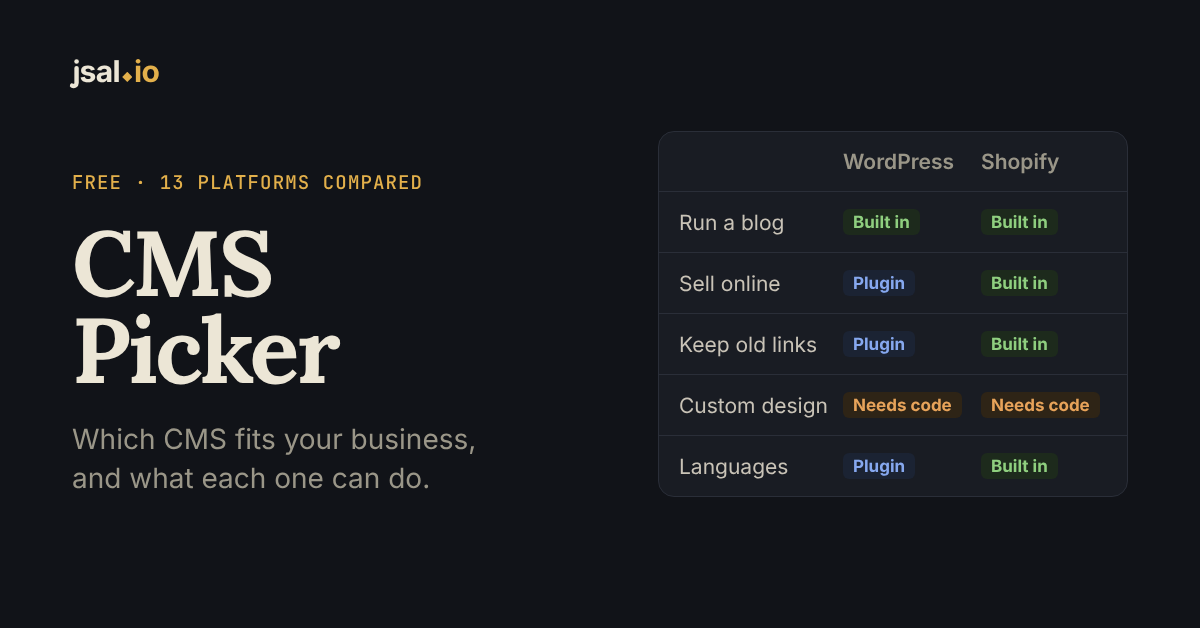
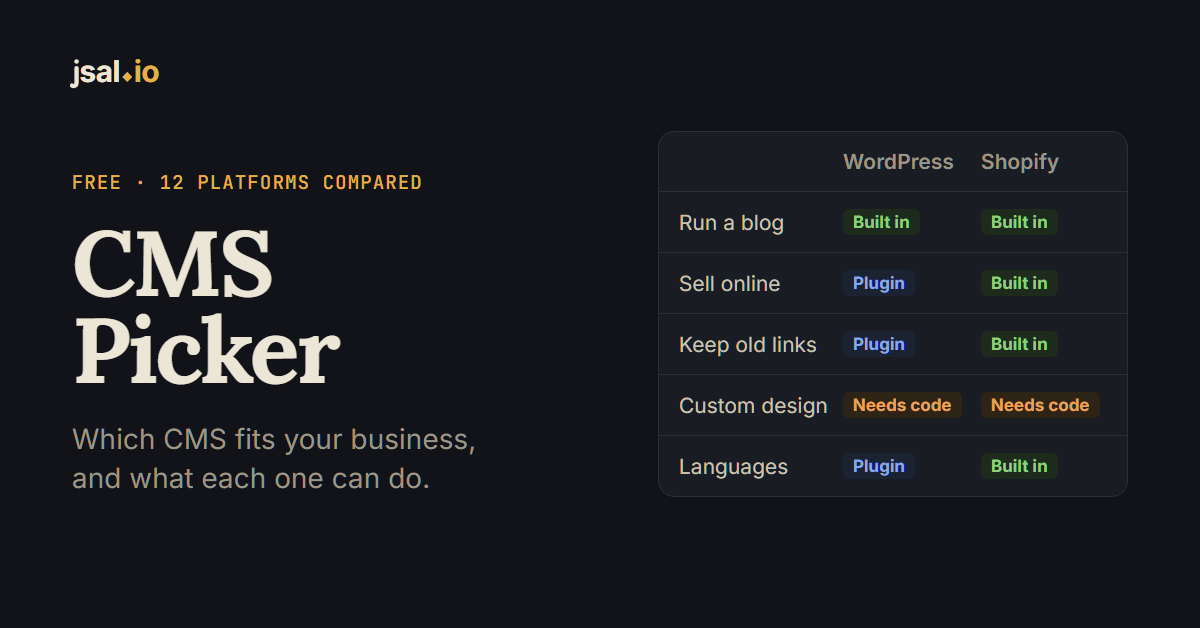
CMS Picker: 12 platforms, with Magento 2 off the picker
John switched Magento 2 off the CMS Picker (it stays in the Playbook for client work): few businesses start a new Magento site now, and it came first only for developer- or agency-built large or B2B stores, which now get BigCommerce (128 of 8,832 answer sets). The home page's Platform guides lose its tile and read "Compare all 12" (the grid still ends even at every width), and the CMS Picker's descriptions, the share image, the design-system page, CLAUDE.md and the design rules say 12.

The persona test now skips quiz values for platforms that are off the picker (they stay in quiz.json for when one comes back) and drops them from expected first places, as it already did for top threes. The four Magento personas expect BigCommerce once it's off. Personas, rules and expert cases pass with Magento on or off.

diff --git a/.github/scripts/personas.test.js b/.github/scripts/personas.test.js
@@ -46,10 +46,11 @@ const PERSONAS = [
   // Stores
   ['Etsy-style maker shop', { what: 'store', who: 'easy', care: 'no', size: 'small', needs: 'none', look: 'template', moving: 'no' },
     { first: ['shopify'], top3: ['shopify'], not: ['magento', 'drupal', 'sanity'] }],
+  // Magento 2 while it's on the picker, BigCommerce once it's switched off (John, 2026-11-01)
   ['5,000-product store with a dev team', { what: 'store', who: 'dev', care: 'yes', size: 'big', needs: 'none', look: 'pixel', moving: 'no' },
-    { first: ['magento'], top3: ['magento', 'shopify'], not: ['wix', 'squarespace'] }],
+    { first: ['magento', 'bigcommerce'], top3: ['magento', 'shopify'], not: ['wix', 'squarespace'] }],
   ['Wholesale B2B store with a developer, two languages', { what: 'store', who: 'dev', care: 'yes', size: 'big', needs: 'none', lang: 'yes', look: 'pixel', moving: 'no' },
-    { first: ['magento'], top3: ['magento', 'shopify', 'bigcommerce'] }],
+    { first: ['magento', 'bigcommerce'], top3: ['magento', 'shopify', 'bigcommerce'] }],
   ['Clothing brand, about 50 products, wants design control', { what: 'store', who: 'learn', care: 'no', size: 'small', needs: 'none', look: 'visual', moving: 'no' },
     { first: ['shopify', 'wix', 'squarespace'], top3: ['shopify'] }],   // a three-way tie: the store questions don't ask about design
   ['Coffee roaster selling to cafés (B2B), not technical', { what: 'store', who: 'easy', care: 'no', size: 'b2b', needs: 'none', look: 'template', moving: 'no' },
@@ -57,7 +58,7 @@ const PERSONAS = [
   ['Wholesaler with trade accounts (B2B), happy to learn', { what: 'store', who: 'learn', care: 'no', size: 'b2b', needs: 'none', look: 'template', moving: 'no' },
     { first: ['bigcommerce'], top3: ['bigcommerce', 'shopify'] }],
   ['Parts supplier selling to businesses (B2B), with a developer', { what: 'store', who: 'dev', care: 'yes', size: 'b2b', needs: 'none', look: 'template', moving: 'no' },
-    { first: ['magento'], top3: ['magento', 'bigcommerce'] }],
+    { first: ['magento', 'bigcommerce'], top3: ['magento', 'bigcommerce'] }],
   // Quiz v3 (agreed 2026-10-31): without the "adding features" and "moving later" points, these four settle on the builders
   ['Local business that needs bookings, happy to learn', { what: 'site', kind: 'local', who: 'learn', care: 'yes', needs: 'bookings', look: 'template', moving: 'no', budget: 'low' },
     { first: ['wix', 'squarespace'], top3: ['wix', 'squarespace'] }],
@@ -100,7 +101,7 @@ const PERSONAS = [
   ['Newsletter with paid members, up to $25 a month', { what: 'content', who: 'learn', care: 'no', needs: 'members', look: 'template', moving: 'no', budget: 'low' },
     { first: ['squarespace'], top3: ['squarespace', 'ghost'], not: ['hubspot'] }],
   ['5,000-product store with a dev team, cost no object', { what: 'store', who: 'dev', care: 'yes', size: 'big', needs: 'none', look: 'pixel', moving: 'no', budget: 'any' },
-    { first: ['magento'], top3: ['magento'] }],
+    { first: ['magento', 'bigcommerce'], top3: ['magento'] }],
   // Hard cases for quiz v3 (agreed 2026-10-31): a need the builders cover, needs the quiz can only take one of, a budget
   // against an agency's usual picks, moving from a platform on the picker (no points; the one you're leaving is never a
   // match), and a store that is also a publication
@@ -137,7 +138,9 @@ let failed = 0;
 for (const [name, answers, want] of PERSONAS) {
   const r = candidates(data, answers), top = r.slice(0, 3).map((x) => x.p.id);
   const errs = [];
-  if (want.first && !want.first.includes(top[0])) errs.push(`first is ${top[0]}, expected ${want.first.join(' or ')}`);
+  // Platforms switched off the picker drop out of what's expected, like the top-three check below
+  const firsts = (want.first || []).filter((id) => ids.has(id));
+  if (want.first && !firsts.includes(top[0])) errs.push(`first is ${top[0]}, expected ${firsts.join(' or ')}`);
   (want.top3 || []).forEach((id) => { if (ids.has(id) && !top.includes(id)) errs.push(`${id} not in the top three`); });
   (want.not || []).forEach((id) => { if (top.includes(id)) errs.push(`${id} in the top three`); });
   // A tie for first (level on points and on matching "Good fit" lines) means the page shows a "Best match" it can't back up
@@ -358,19 +361,22 @@ walk({}, 0);
 unworded.forEach((k) => cardErrs.push(`score part "${k}" has no wording in TIP (score.js), so it can't say what tipped a result`));
 // Each part says the answer behind it first (LEAD); null only when its wording already names the answer
 Object.keys(TIP).forEach((k) => { if (!(k in LEAD)) cardErrs.push(`score part "${k}" has no answer lead-in in LEAD (score.js)`); });
+// The checks of quiz.json against the cards skip platforms switched off the picker: their values stay, unused, for when
+// they're switched back on
+const onPicker = ([id]) => ids.has(id);
 // A design-control tie-break (quiz.lookBest) must quote a tag that is on its platform's card
-Object.entries(data.quiz.lookBest || {}).forEach(([id, lb]) => {
+Object.entries(data.quiz.lookBest || {}).filter(onPicker).forEach(([id, lb]) => {
   const p = data.platforms.find((x) => x.id === id);
   if (!p || !((p.profile || {}).tags || []).includes(lb.tag)) cardErrs.push(`lookBest for ${id}: "${lb.tag}" isn't a tag on its card`);
 });
 // Every mapped "Not ideal if" line must still be on its platform's card, or the rule matches a line nobody sees
-Object.entries(data.quiz.notIdeal || {}).forEach(([id, rules]) => {
+Object.entries(data.quiz.notIdeal || {}).filter(onPicker).forEach(([id, rules]) => {
   const lines = ((data.platforms.find((p) => p.id === id) || {}).profile || {}).lessSuited || [];
   rules.forEach((n) => { if (!lines.some((l) => l.startsWith(n.if))) cardErrs.push(`notIdeal for ${id}: "${n.if}" isn't a "Not ideal if" line on its card any more`); });
 });
 // Every tagged "Good fit" line (quiz.fitFor, the tie-break) must still be on its card, and its "when" must name real
 // questions and answers
-Object.entries(data.quiz.fitFor || {}).forEach(([id, tags]) => {
+Object.entries(data.quiz.fitFor || {}).filter(onPicker).forEach(([id, tags]) => {
   const lines = ((data.platforms.find((p) => p.id === id) || {}).profile || {}).goodFit || [];
   tags.forEach((f) => {
     if (!lines.some((l) => l.startsWith(f.line))) cardErrs.push(`fitFor for ${id}: "${f.line}" isn't a "Good fit" line on its card any more`);
@@ -381,7 +387,7 @@ Object.entries(data.quiz.fitFor || {}).forEach(([id, tags]) => {
   });
 });
 // A free plan's address note (quiz.freeDomain) names its address and the platform's own page, on a platform that starts free
-Object.entries(data.quiz.freeDomain || {}).forEach(([id, fd]) => {
+Object.entries(data.quiz.freeDomain || {}).filter(onPicker).forEach(([id, fd]) => {
   if (!fd.address || !/^https:\/\//.test(fd.url || '')) cardErrs.push(`freeDomain for ${id}: needs an address and the platform's own page`);
   if (((data.answers[id] || {}).cost_site || {}).verdict !== 'free') cardErrs.push(`freeDomain for ${id}: its site doesn't start free any more`);
 });

diff --git a/site/index.html b/site/index.html
@@ -431,7 +431,7 @@ footer .foot-btn { border: 0; background: none; font: inherit; cursor: pointer; 
     </section>
     <!-- Platform guides: the CMS Picker's one page per platform (its SEO settings and where to find each). Under the intro, its bottom level with the
        tile's; from 1100px down it takes the full width under both; written by hand in the publish's platform order -->
-    <nav class="guides" aria-labelledby="guides-h"><p class="label" id="guides-h">Platform guides</p><div><a href="/cms-picker/wordpress/" style="--logo: url(/cms-picker/logos/wordpress.svg)">WordPress</a><a href="/cms-picker/shopify/" style="--logo: url(/cms-picker/logos/shopify.svg)">Shopify</a><a class="wm" href="/cms-picker/wix/" style="--logo: url(/cms-picker/logos/wix.svg)">Wix</a><a href="/cms-picker/squarespace/" style="--logo: url(/cms-picker/logos/squarespace.svg)">Squarespace</a><a href="/cms-picker/webflow/" style="--logo: url(/cms-picker/logos/webflow.svg)">Webflow</a><a href="/cms-picker/framer/" style="--logo: url(/cms-picker/logos/framer.svg)">Framer</a><a href="/cms-picker/hubspot/" style="--logo: url(/cms-picker/logos/hubspot.svg)">HubSpot CMS</a><a href="/cms-picker/bigcommerce/" style="--logo: url(/cms-picker/logos/bigcommerce.svg)">BigCommerce</a><a href="/cms-picker/magento/" style="--logo: url(/cms-picker/logos/magento.svg)">Magento 2</a><a href="/cms-picker/drupal/" style="--logo: url(/cms-picker/logos/drupal.svg)">Drupal</a><a class="wm" href="/cms-picker/duda/" style="--logo: url(/cms-picker/logos/duda.svg)">Duda</a><a href="/cms-picker/ghost/" style="--logo: url(/cms-picker/logos/ghost.svg)">Ghost</a><a href="/cms-picker/sanity/" style="--logo: url(/cms-picker/logos/sanity.svg)">Sanity</a><a class="all" href="/cms-picker/#seo">Compare all 13<span aria-hidden="true">→</span></a></div></nav>
+    <nav class="guides" aria-labelledby="guides-h"><p class="label" id="guides-h">Platform guides</p><div><a href="/cms-picker/wordpress/" style="--logo: url(/cms-picker/logos/wordpress.svg)">WordPress</a><a href="/cms-picker/shopify/" style="--logo: url(/cms-picker/logos/shopify.svg)">Shopify</a><a class="wm" href="/cms-picker/wix/" style="--logo: url(/cms-picker/logos/wix.svg)">Wix</a><a href="/cms-picker/squarespace/" style="--logo: url(/cms-picker/logos/squarespace.svg)">Squarespace</a><a href="/cms-picker/webflow/" style="--logo: url(/cms-picker/logos/webflow.svg)">Webflow</a><a href="/cms-picker/framer/" style="--logo: url(/cms-picker/logos/framer.svg)">Framer</a><a href="/cms-picker/hubspot/" style="--logo: url(/cms-picker/logos/hubspot.svg)">HubSpot CMS</a><a href="/cms-picker/bigcommerce/" style="--logo: url(/cms-picker/logos/bigcommerce.svg)">BigCommerce</a><a href="/cms-picker/drupal/" style="--logo: url(/cms-picker/logos/drupal.svg)">Drupal</a><a class="wm" href="/cms-picker/duda/" style="--logo: url(/cms-picker/logos/duda.svg)">Duda</a><a href="/cms-picker/ghost/" style="--logo: url(/cms-picker/logos/ghost.svg)">Ghost</a><a href="/cms-picker/sanity/" style="--logo: url(/cms-picker/logos/sanity.svg)">Sanity</a><a class="all" href="/cms-picker/#seo">Compare all 12<span aria-hidden="true">→</span></a></div></nav>
 
     <!-- App tiles (data-app marks the ones that open a tool). CMS Picker is the big one beside
          the intro; then Image Resizer (wide) and Clean Paste, then the team's Playbook. The wide tile swaps
@@ -445,7 +445,7 @@ footer .foot-btn { border: 0; background: none; font: inherit; cursor: pointer; 
         <div>
           <p class="label">web app</p>
           <h2><img class="tile-ico" src="/img/icons/cms-picker.svg" alt="" width="32" height="32">CMS Picker</h2>
-          <p class="desc">Find the CMS that fits in a few questions, or compare 13 platforms: who each one suits, what it costs to start, and what you can change for SEO and AI search.</p>
+          <p class="desc">Find the CMS that fits in a few questions, or compare 12 platforms: who each one suits, what it costs to start, and what you can change for SEO and AI search.</p>
         </div>
         <span class="arrow" aria-hidden="true"><svg width="18" height="18" viewBox="0 0 24 24" fill="none" stroke="currentColor" stroke-width="2" stroke-linecap="round" stroke-linejoin="round"><path d="M7 17 17 7M8 7h9v9"/></svg></span>
       </div>

diff --git a/site/cms-picker/index.html b/site/cms-picker/index.html
@@ -4,7 +4,7 @@
   <meta charset="UTF-8" />
   <meta name="viewport" content="width=device-width, initial-scale=1.0" />
   <title>CMS Picker: Which Website Builder or CMS Fits You? | jsal.io</title>
-  <meta name="description" content="Which website builder or CMS fits you? Take a short quiz or compare 13 platforms, from WordPress to Webflow: who each suits, what’s built in, and SEO." />
+  <meta name="description" content="Which website builder or CMS fits you? Take a short quiz or compare 12 platforms, from WordPress to Webflow: who each suits, what’s built in, and SEO." />
   <link rel="canonical" href="https://jsal.io/cms-picker/" />
   <link rel="icon" href="/img/icons/cms-picker.svg?v=2d6c80ca" type="image/svg+xml">
   <!-- Clicks before /nav.js is ready (the logo, or a page mid-transition) are held for it to replay; a transition the browser aborts is kept quiet; the first page of a visit folds the logo into its mark before the first paint, for /nav.js to unfold -->
@@ -18,7 +18,7 @@
   <meta property="og:url" content="https://jsal.io/cms-picker/" />
   <meta property="og:site_name" content="jsal.io" />
   <meta property="og:title" content="CMS Picker: Which Website Builder or CMS Fits You? | jsal.io" />
-  <meta property="og:description" content="A few quick questions to find the website platform that fits, or compare 13 side by side: who each suits, what’s built in, and getting found on Google and AI search." />
+  <meta property="og:description" content="A few quick questions to find the website platform that fits, or compare 12 side by side: who each suits, what’s built in, and getting found on Google and AI search." />
   <meta property="og:image" content="https://jsal.io/og/cms-picker.png">
   <meta property="og:image:width" content="1200">
   <meta property="og:image:height" content="628">
@@ -30,7 +30,7 @@
     "@type": "WebApplication",
     "name": "CMS Picker",
     "url": "https://jsal.io/cms-picker/",
-    "description": "A guide to choosing a website builder or CMS: a short quiz that ranks 13 platforms for you, who each one suits, and a side-by-side comparison of everyday features (a blog, an online store, more than one language, forms, design control) and getting found on Google and AI search (titles and descriptions, URLs, redirects, structured data, noindex, AI crawlers), plus who handles hosting and what you can take with you. General guidance, not a guarantee for any one site.",
+    "description": "A guide to choosing a website builder or CMS: a short quiz that ranks 12 platforms for you, who each one suits, and a side-by-side comparison of everyday features (a blog, an online store, more than one language, forms, design control) and getting found on Google and AI search (titles and descriptions, URLs, redirects, structured data, noindex, AI crawlers), plus who handles hosting and what you can take with you. General guidance, not a guarantee for any one site.",
     "dateModified": "2026-11-01",
     "applicationCategory": "BusinessApplication",
     "operatingSystem": "Any (web browser)",

diff --git a/.github/build/og/og.html b/.github/build/og/og.html
@@ -97,7 +97,7 @@ const pages = {
   home: { label: 'Technical SEO · Web tools', title: 'John<br><em>Salvador</em>', sub: 'CMS Picker and free browser tools for website content.', visual: table },
   'image-resizer': { label: 'Free · Runs in your browser', title: 'Image<br>Resizer', sub: 'Resize one image or a whole batch: JPG, PNG, WebP and HEIC.', visual: resizer },
   formatter: { label: 'Free · Runs in your browser', title: 'Clean<br>Paste', sub: 'Word and Google Docs to clean HTML, with SEO checks.', visual: paste },
-  'cms-picker': { label: 'Free · 13 platforms compared', title: 'CMS<br>Picker', sub: 'Which CMS fits your business, and what each one can do.', visual: table },
+  'cms-picker': { label: 'Free · 12 platforms compared', title: 'CMS<br>Picker', sub: 'Which CMS fits your business, and what each one can do.', visual: table },
   // Blizzard's WoW Forever art: scaled down whole (never cropped or altered), framed with CSS, credited
   play: { label: 'Off the clock', title: 'Mostly<br><em>Warcraft</em>', sub: 'My game UI, ways to say hi, and hidden achievements.',
     visual: `<figure class="art"><img src="../../../img/wow-forever-1200.webp" alt=""><figcaption>Art © Blizzard Entertainment</figcaption></figure>` },

diff --git a/site/design-system/index.html b/site/design-system/index.html
@@ -498,7 +498,7 @@ footer.end a { color: var(--jsal-accent); text-underline-offset: 2px; }
     <div class="demos">
       <div class="demo">
         <span class="src">Buttons · cms-picker/styles.css .btn, formatter .btn-primary/.btn-accent, image-resizer .btn-danger</span>
-        <div class="row"><button type="button" class="btn primary">Find my fit</button><button type="button" class="btn">Compare all 13</button><button type="button" class="btn" disabled>Download All</button><button type="button" class="btn btn-danger">Clear</button></div>
+        <div class="row"><button type="button" class="btn primary">Find my fit</button><button type="button" class="btn">Compare all 12</button><button type="button" class="btn" disabled>Download All</button><button type="button" class="btn btn-danger">Clear</button></div>
         <span class="src">Home page calls to action · index.html .cta (pill, lifts 2px on hover)</span>
         <div class="row"><button type="button" class="cta main">Find your CMS</button><button type="button" class="cta alt">Say hi</button></div>
       </div>

diff --git a/CLAUDE.md b/CLAUDE.md
@@ -6,7 +6,7 @@ John Salvador's personal site: a home page and browser tools, plain HTML/CSS/JS 
 
 - This folder is the repo `superjsal/jsal.io` (public); `site\` is what jsal.io serves. The "Deploy Pages" Action publishes `site\` on every push to `main`, live a minute or two later (Pages' source is "GitHub Actions", not a branch; `.github\workflows\deploy-pages.yml`). `private\` is ignored; `CLAUDE.md`, `SETUP.md` and `.claude\` are tracked but never served. Commit as superjsal <dev@jsal.io>.
   - Pages (styles inline unless noted):
-    - Tools: `/cms-picker/` (CMS Picker, styles in `styles.css`), its 13 platform pages `/cms-picker/<platform>/` (written by the nightly publish from `.github\scripts\platform-page.html`; never edit them by hand), `/formatter/` (Clean Paste), `/image-resizer/` (Image Resizer), `/ic/` (Platform Playbook, team-only, noindex; its styles and script in `ic\styles.css` and `ic\app.js`).
+    - Tools: `/cms-picker/` (CMS Picker, styles in `styles.css`), its 12 platform pages `/cms-picker/<platform>/` (written by the nightly publish from `.github\scripts\platform-page.html`; never edit them by hand), `/formatter/` (Clean Paste), `/image-resizer/` (Image Resizer), `/ic/` (Platform Playbook, team-only, noindex; its styles and script in `ic\styles.css` and `ic\app.js`).
     - Site: `/` (home: the tools, Updates and Say hi), `/play/` (Mostly Warcraft, "Off the clock" in menus: jsal.ui (the WoW UI), the WoW tile, the Backpack and the Achievements list), `/changelog/` (every change; noindex, not in the sitemap), `/privacy/`, `404.html`, and `/design-system/` (a showcase of the design rules; noindex, linked from nowhere).
   - Shared by every page:
     - `shell.css`: colour tokens `--jsal-*` (light and dark), the shared building blocks (corners, selected state, button weight), top bar, column width, page transitions, the achievement pop-up. Every page links it with one identical line, `<link rel="stylesheet" href="/shell.css?v=…">`, in `<head>` before the page's own styles (`check.py` checks the line and its place; its `?v=` is the file's content hash, like every other, see Before pushing).

diff --git a/.github/docs/design-rules.md b/.github/docs/design-rules.md
@@ -73,7 +73,7 @@ focus `--jsal-focus-ring`; button weight `--jsal-btn-weight`. Use these instead 
   (beside the intro from 1101 to 1279px, the four and five columns from 521 to 769px, two columns below 340px), the
   logos drop out and the names centre. From 521 to 619px the guides take four columns rather than five, so
   "BigCommerce" fits.
-- **An index of links ends even.** Its last tile is the link that covers the whole set (the guides' "Compare all 13
+- **An index of links ends even.** Its last tile is the link that covers the whole set (the guides' "Compare all 12
   →"), set like the others (full ink, the arrow after the words) but centred and without a logo, and stretched across whatever is
   left of its row by `:last-child:nth-child(…)` rules for each column count, so the grid stays even at any count
   and adding an entry is adding its link. It never takes gold: the arrow alone says it goes elsewhere.
